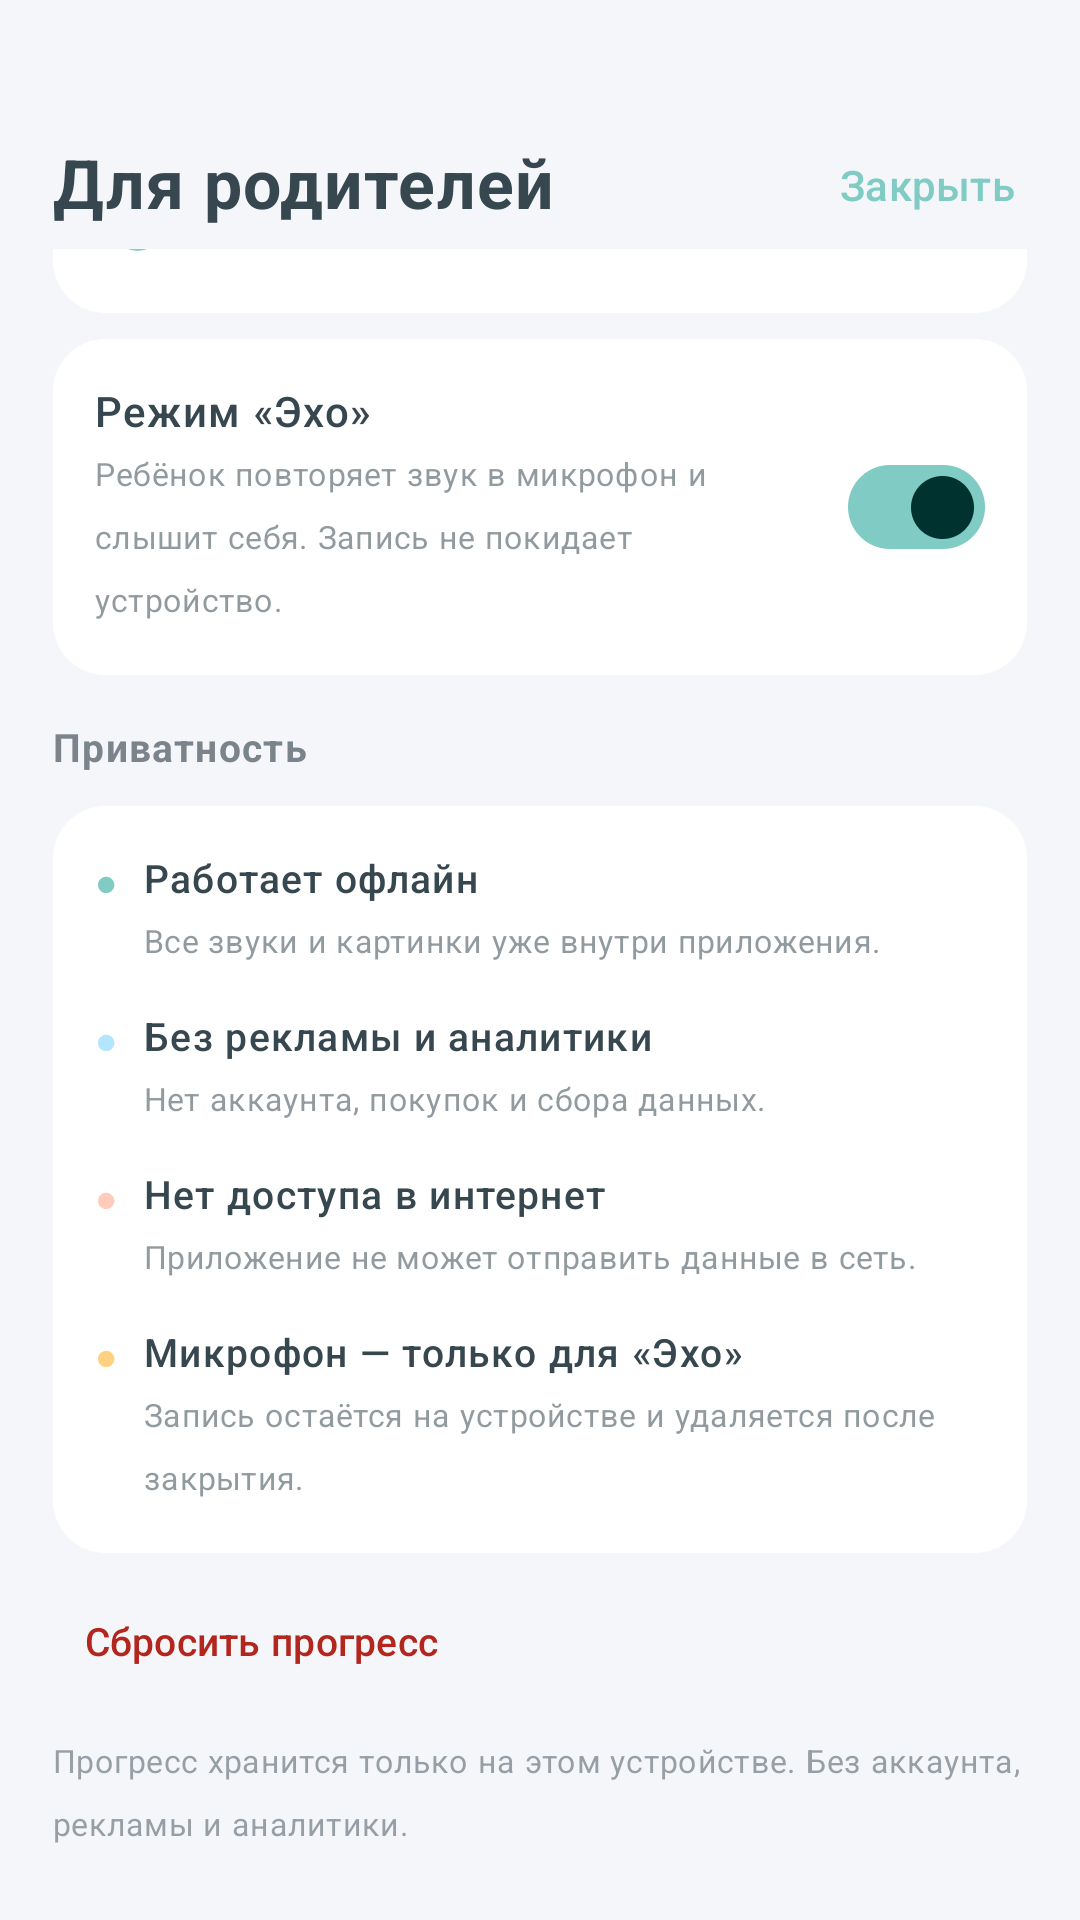
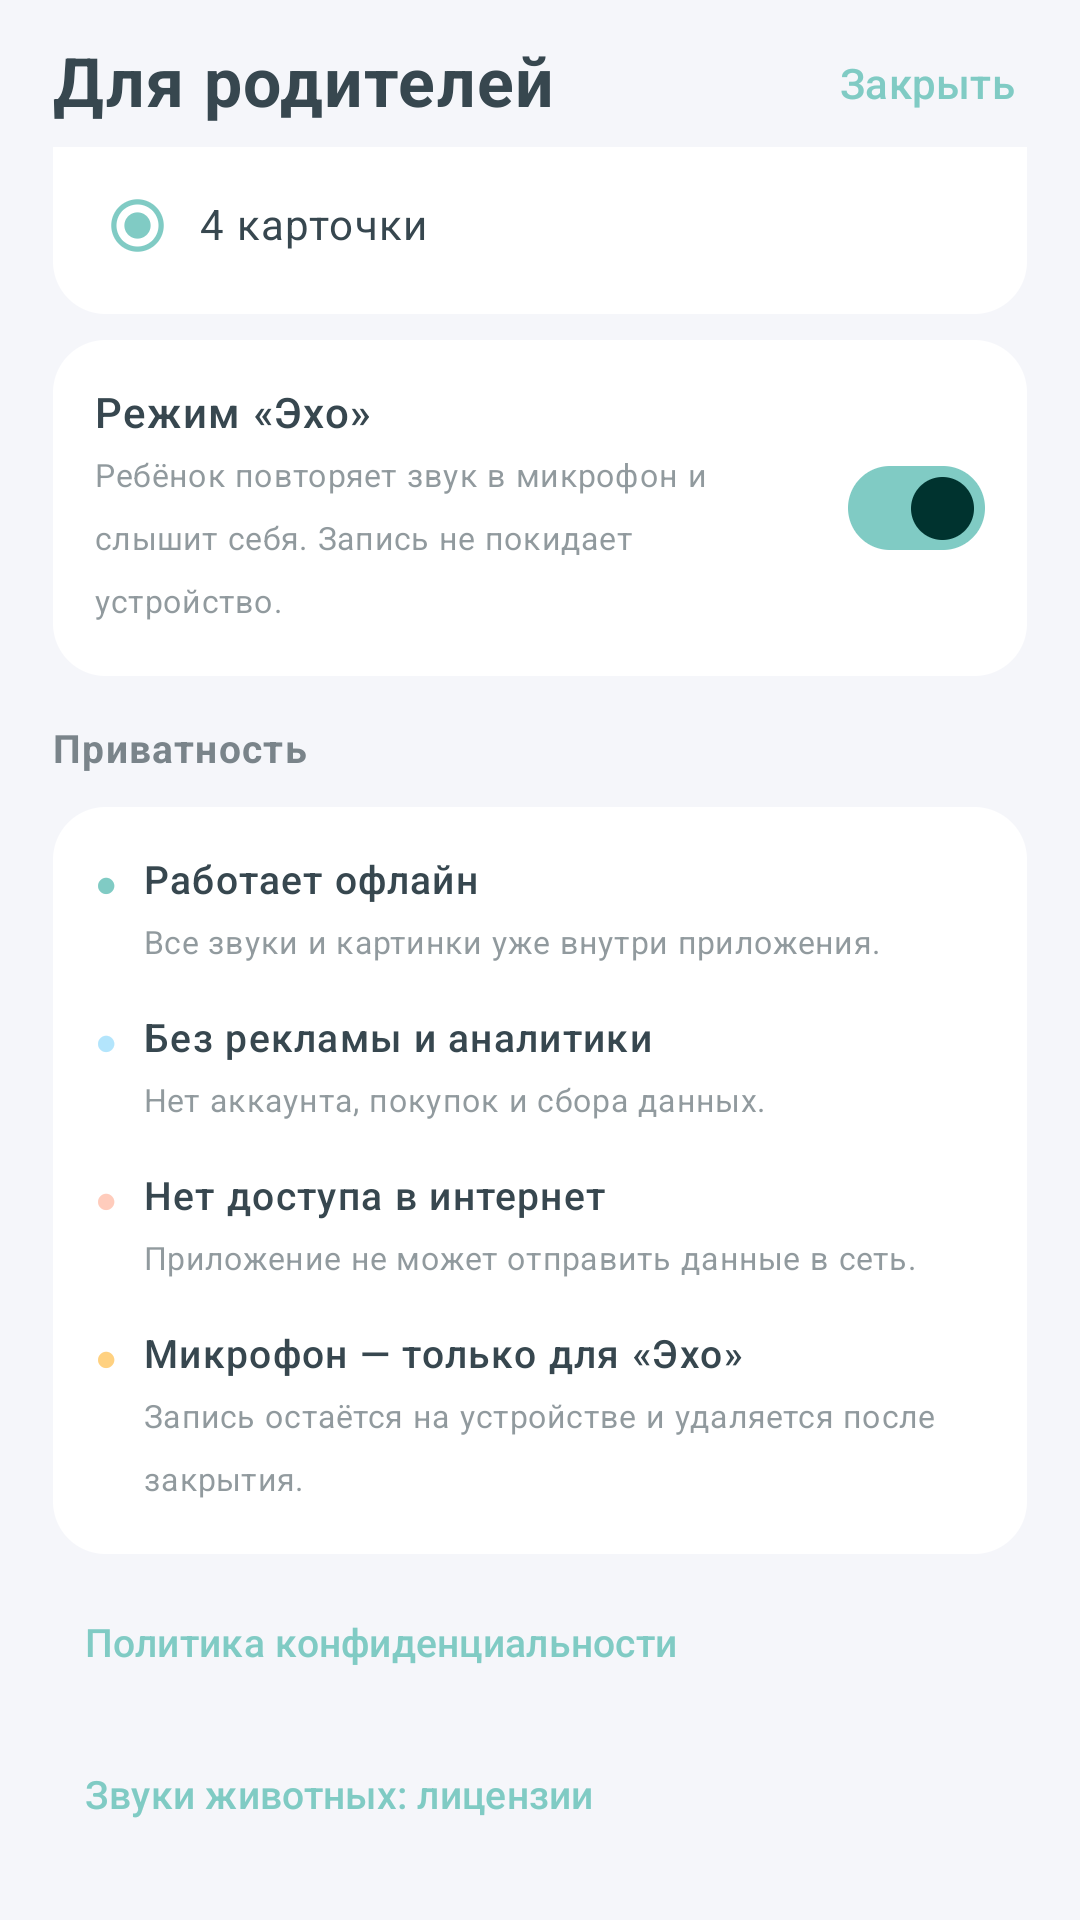
Add privacy policy link to parent panel

diff --git a/app/src/main/java/ru/tac/whosayswhat/ui/ParentPanel.kt b/app/src/main/java/ru/tac/whosayswhat/ui/ParentPanel.kt
@@ -1,5 +1,9 @@
 package ru.tac.whosayswhat.ui
 
+import android.content.Context
+import android.content.Intent
+import android.net.Uri
+import android.widget.Toast
 import androidx.compose.foundation.clickable
 import androidx.compose.foundation.layout.Arrangement
 import androidx.compose.foundation.layout.Box
@@ -38,6 +42,7 @@ import androidx.compose.ui.Alignment
 import androidx.compose.ui.Modifier
 import androidx.compose.ui.draw.alpha
 import androidx.compose.ui.graphics.Color
+import androidx.compose.ui.platform.LocalContext
 import androidx.compose.ui.text.font.FontWeight
 import androidx.compose.ui.unit.dp
 import androidx.compose.ui.unit.sp
@@ -51,6 +56,8 @@ import ru.tac.whosayswhat.ui.theme.Sky
 import ru.tac.whosayswhat.ui.theme.Sunny
 
 private const val TAP_WINDOW_MS = 1_500L
+private const val PRIVACY_POLICY_URL =
+    "https://teaka-23.github.io/whoSaysWhat/privacy-policy.html"
 
 /**
  * Атрибуция записей с Wikimedia Commons. Файлы входят в APK, поэтому credits
@@ -166,6 +173,7 @@ fun ParentPanel(
 ) {
     var confirmReset by remember { mutableStateOf(false) }
     var showSoundLicenses by remember { mutableStateOf(false) }
+    val context = LocalContext.current
 
     Surface(modifier = Modifier.fillMaxSize(), color = Cream) {
         Column(modifier = Modifier.fillMaxSize().safeDrawingPadding()) {
@@ -229,6 +237,12 @@ fun ParentPanel(
                 item { SectionTitle("Приватность") }
 
                 item { PrivacyCard() }
+
+                item {
+                    TextButton(onClick = { context.openPrivacyPolicy() }) {
+                        Text(text = "Политика конфиденциальности", fontSize = 15.sp)
+                    }
+                }
 
                 item {
                     TextButton(onClick = { showSoundLicenses = true }) {
@@ -513,6 +527,15 @@ private fun PrivacyRow(title: String, text: String, accent: Color) {
             )
         }
     }
+}
+
+private fun Context.openPrivacyPolicy() {
+    val intent = Intent(Intent.ACTION_VIEW, Uri.parse(PRIVACY_POLICY_URL))
+        .addFlags(Intent.FLAG_ACTIVITY_NEW_TASK)
+    runCatching { startActivity(intent) }
+        .onFailure {
+            Toast.makeText(this, "Не удалось открыть браузер", Toast.LENGTH_SHORT).show()
+        }
 }
 
 @Composable

diff --git a/README.md b/README.md
@@ -84,10 +84,11 @@ receiver'ов — оно не показывается пользователю 
   обновления.
 - [x] **Политика конфиденциальности.** Оператор и контакт заполнены в
   `store/privacy-policy.md` / `.html`. HTML проверен локально и публикуется
-  workflow `.github/workflows/pages.yml`.
+  workflow `.github/workflows/pages.yml`. Ссылка на политику открывается из
+  панели «Для родителей» → «Приватность».
 - [x] **Проверка сборки.** `testDebugUnitTest`, `lintDebug`, `assembleRelease`
-  и `bundleRelease` проходят; звуки и диалог лицензий проверены на эмуляторе
-  Android 15.
+  и `bundleRelease` проходят; звуки, диалог лицензий и ссылка на политику
+  проверены на эмуляторе Android 15.
 
 - [x] **Публикация политики.** Репозиторий `teaka-23/whoSaysWhat` создан,
   GitHub Pages включён (Source: GitHub Actions), workflow выполнен успешно.
